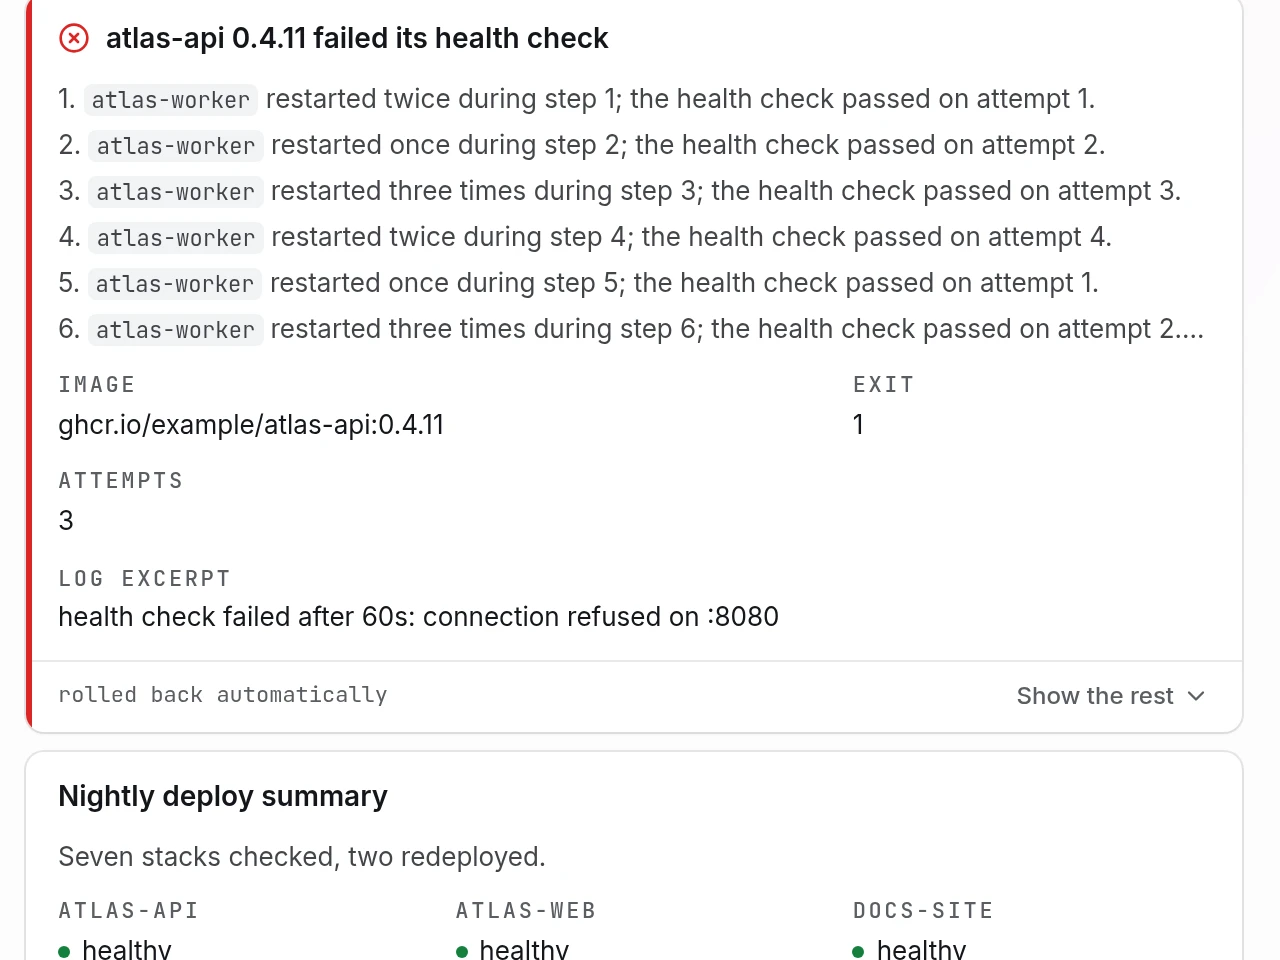
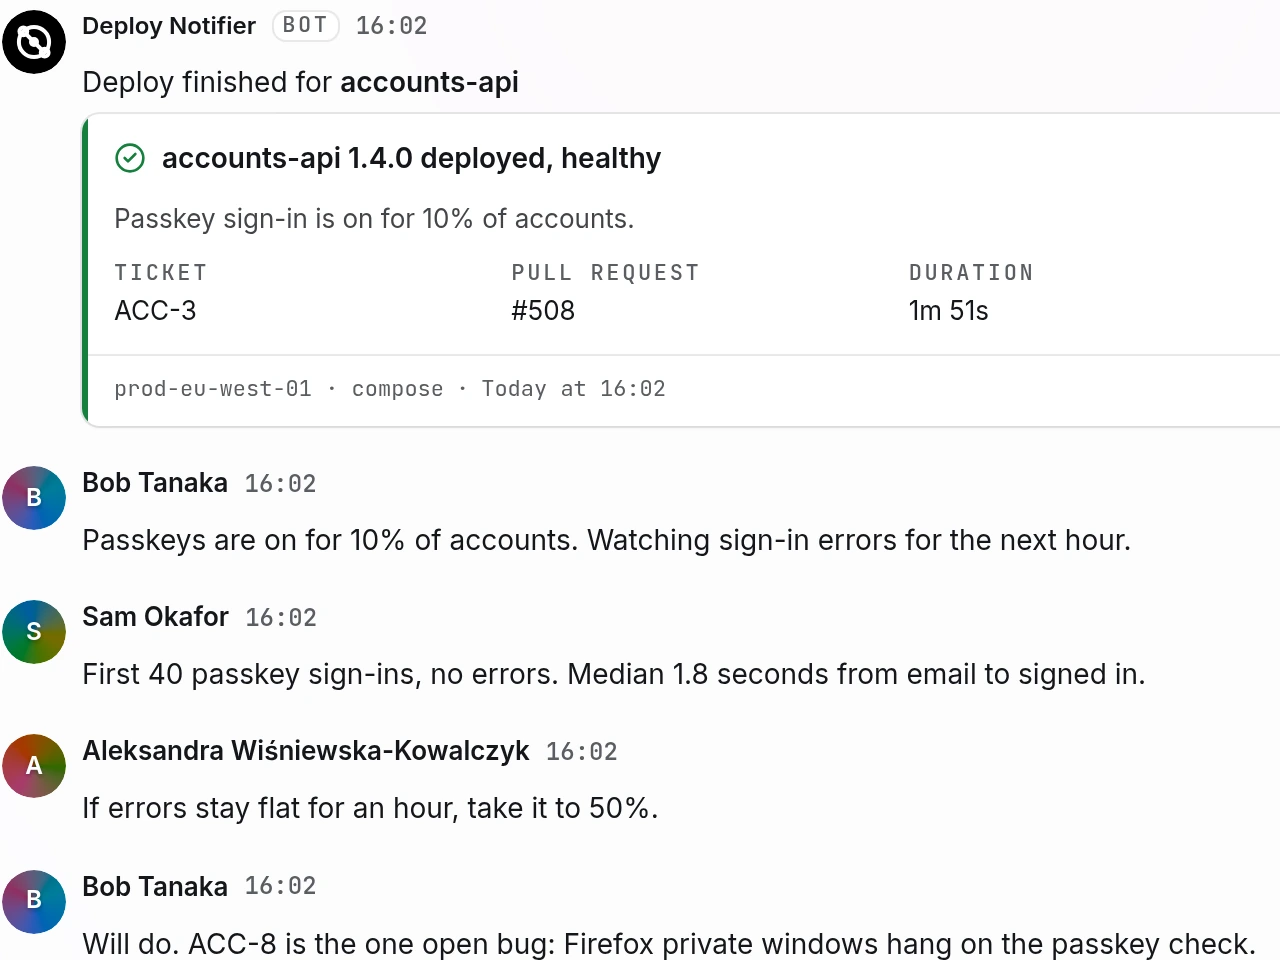
Home page: follow passkey sign-in from spec to rollout
The hero and the four step shots now come from one project in the example
workspace: the Accounts board, the Passkey sign-in spec, ticket ACC-3, the
accounts-api 1.4.0 deploy and the deploy bot's card in #engineering with the
team's replies. The step copy and the agent example narrate the same feature.
The example's people have logins no GitHub account can have, so the shots show
gradient avatars without blocking anything. The recapture notes list each
page and its crop.

Changed region(s): [[0.0, 0.0, 0.9688, 1.0], [0.9688, 0.4375, 1.0, 0.4688]]

diff --git a/practices/design-language.md b/practices/design-language.md
@@ -1349,20 +1349,31 @@ schemes, frame strips and 1x and 0.25x recordings. The home page
 site's tokens and adds none.
 
 Showing the product.
-- Real 2x screenshots of the seeded example workspace (Northwind, Atlas
-  Platform), one per scheme, served by `ProductShot.astro` through Astro's
-  image pipeline as AVIF and WebP with width and height set; the page's
-  `.light` or `.dark` class picks the scheme, so the header toggle swaps them.
-  The hero is the board; the four steps are the doc, the ticket, the deploy
-  and a channel's bot cards, each cropped to 640x480 so they show close to
-  1:1 on a desktop. People without a photo show their gradient avatar: the
-  capture blocks avatar photos, so no real face or name ships.
+- Real 2x screenshots of the seeded example workspace (Northwind), one per
+  scheme, served by `ProductShot.astro` through Astro's image pipeline as AVIF
+  and WebP with width and height set; the page's `.light` or `.dark` class
+  picks the scheme, so the header toggle swaps them.
+- Every shot follows one feature, passkey sign-in, in the Accounts project:
+  the hero is its board, and the four steps are its spec, ticket ACC-3, the
+  accounts-api 1.4.0 deploy and the deploy bot's card in #engineering with
+  the team's replies, each cropped to 640x480 so they show close to 1:1 on a
+  desktop. A sign-in feature needs no explaining, and its spec has the edge
+  cases (a lost device, rate limits, the email code fallback) that make the
+  tickets read like real work. Rejected: unrelated records from the busiest
+  project (a runbook, a retry bug, an older deploy, a failed health check),
+  which showed each screen but no thread between them. Passkeys won over
+  sign-in with an email code alone: here the code is the passkey flow's
+  fallback, so one feature carries both.
+- People show their gradient avatar. The seeded logins carry an underscore and
+  a two-letter suffix (`bob_nw`), which no GitHub account can have, so the
+  app's `github.com/<login>.png` fallback finds nothing and no real face
+  ships.
 - The hero shot sits on a field panel (`surface-2` with the light field's
   three glows, the panel ring) and bleeds off its right and bottom edges, the
   screenshot's top-left corner rounded at 9px. Below 768px it switches to a
   480x600 crop of the board's top-left so cards stay legible.
-- Weight: the hero is about 18KB on a phone and 32KB on a 1x desktop; the four
-  lazy step shots add about 60KB on a 1x desktop and 100KB on a 2x phone.
+- Weight: the hero is about 16KB on a phone and 36KB on a 1x desktop; the four
+  lazy step shots add about 65KB on a 1x desktop and 105KB on a 2x phone.
 - Rejected: a muted loop of the app (board, palette, ticket; 85KB at 1x and
   soft on a retina screen, about three times that at 2x, unreadable at 375px,
   motion beside the headline, and the reduced-motion still is the same

diff --git a/website/src/content/docs/docs/contributing/website.md b/website/src/content/docs/docs/contributing/website.md
@@ -106,14 +106,30 @@ Verify docs pages at 320, 375, 414, 768, 1024 and 1440px in both color
 schemes, with the phone menu open below 768px.
 
 The homepage shows the product as screenshots of the app running the seeded
-example workspace (Northwind), never a real instance. The sources are
+example workspace (Northwind), never a real instance. Every shot follows one
+feature, passkey sign-in, in its Accounts project, and the step copy narrates
+the same feature, so change both together. The sources are
 `src/assets/home/<name>-<dark|light>.webp`, captured at 1440x900 and 2x in each
-mode with avatar photos blocked so people show their gradient avatars, then
-cropped; `src/components/ProductShot.astro` turns each pair into AVIF and WebP
-at several widths and lets the page's theme pick one. Recapture them when the
-screens they show change, keeping the same crops: the full board for the
-hero, its top-left 480x600 for phones, and 640x480 of the doc, ticket, deploy
-and channel pages for the steps.
+mode, then cropped; `src/components/ProductShot.astro` turns each pair into
+AVIF and WebP at several widths and lets the page's theme pick one. Seeded
+people have logins no GitHub account can have (`bob_nw`), so they show their
+gradient avatars; never capture people whose login could be a real GitHub
+account, because the app shows `github.com/<login>.png` for anyone without a
+picture.
+
+Recapture them when the screens they show change. Set the app's appearance
+for each mode (the app keeps its own, it does not follow the system), dismiss
+the board's interview banner, and keep the crops, given in CSS pixels on the
+1440x900 page:
+
+| Shot | Page | Crop (x, y, width, height) |
+|---|---|---|
+| `board` | the Accounts board | the whole page |
+| `board-narrow` | the same board, for phones | 256, 24, 480, 600 |
+| `doc` | the Passkey sign-in doc | 790, 176, 640, 480 (the Doc tab and the text) |
+| `ticket` | ticket ACC-3 | 580, 25, 640, 480 |
+| `deploy` | the latest accounts-api deploy | 345, 30, 640, 480 |
+| `chat` | #engineering, scrolled to the end | 462, 339, 640, 480 (the bot card and the replies) |
 
 Verify the homepage at 320, 375, 414, 768, 1024 and 1440px in both color
 schemes and with the header's theme toggle, including keyboard navigation and
